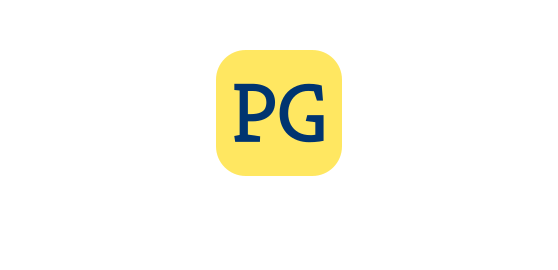
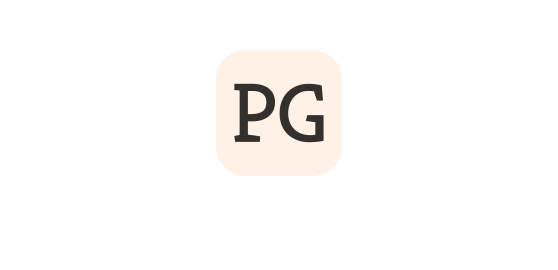
Change theme to strawberry and cream

Changed region(s): [[0.3656, 0.1778, 0.6398, 0.6519]]

diff --git a/themes/awesome/assets/css/abstracts/_colors.scss b/themes/awesome/assets/css/abstracts/_colors.scss
@@ -10,7 +10,7 @@
 
 
 // $monocolor: indigo;
-// $monocolor: hsl(197, 100%, 22%);
+// // $monocolor: hsl(197, 100%, 22%);
 // $lightlight: white;
 // $lightdark: $monocolor;
 // $lightaccent: purple;
@@ -18,6 +18,16 @@
 // $darkdark: $monocolor;
 // $darkaccent: pink;
 
+$finance: #FFF1E5;
+$black: #33302e;
+$lightlight: $finance;
+$lightdark: $black;
+// $lightaccent: hsl(185, 82%, 28%);
+$lightaccent: RebeccaPurple;
+$darklight: $finance;
+$darkdark: $black;
+// $darkaccent: hsl(186, 72%, 72%);
+$darkaccent: pink;
 
 // $papaya: hsl(37.1, 100%, 91.8%);
 // $black: #121212;
@@ -51,16 +61,16 @@
 // $ukraineblue: #0057B8;
 // $ukraineyellow: #FFD700;
 
-$ukraineblue: hsl(212, 100%, 19%);
-$ukraineyellow: hsl(51, 100%, 81%);
-$ukraineblueaccent: hsl(212, 100%, 36%);
-$ukraineyellowaccent: hsl(51, 100%, 60%);
-$lightlight: $ukraineyellow;
-$lightdark: $ukraineblue;
-$lightaccent: $ukraineblueaccent;
-$darklight: $ukraineyellow;
-$darkdark: $ukraineblue;
-$darkaccent: $ukraineyellowaccent;
+// $ukraineblue: hsl(212, 100%, 19%);
+// $ukraineyellow: hsl(51, 100%, 81%);
+// $ukraineblueaccent: hsl(212, 100%, 36%);
+// $ukraineyellowaccent: hsl(51, 100%, 60%);
+// $lightlight: $ukraineyellow;
+// $lightdark: $ukraineblue;
+// $lightaccent: $ukraineblueaccent;
+// $darklight: $ukraineyellow;
+// $darkdark: $ukraineblue;
+// $darkaccent: $ukraineyellowaccent;
 
 
 :root {

diff --git a/themes/awesome/assets/css/main.css b/themes/awesome/assets/css/main.css
@@ -539,11 +539,11 @@ figure figcaption {
   }
 }
 :root {
-  --bg: #fff09e;
-  --fg: #002d61;
-  --accent: #0056b8;
-  --light: #fff09e;
-  --dark: #002d61;
+  --bg: #FFF1E5;
+  --fg: #33302e;
+  --accent: RebeccaPurple;
+  --light: #FFF1E5;
+  --dark: #33302e;
 }
 @media print {
   :root {
@@ -557,9 +557,9 @@ figure figcaption {
 
 @media (prefers-color-scheme: dark) {
   :root {
-    --bg: #002d61;
-    --fg: #fff09e;
-    --accent: #ffe033;
+    --bg: #33302e;
+    --fg: #FFF1E5;
+    --accent: pink;
   }
 }
 .header {

diff --git a/content/about/index.md b/content/about/index.md
@@ -51,7 +51,7 @@ The site is open source. You can find the source code on [Github](https://github
 
 Last updated: {{< lastupdated >}}
 
-Current theme: **Slava Ukraini!**
+Current theme: **Strawberry and Chocolate**
 
 ### Support
 
